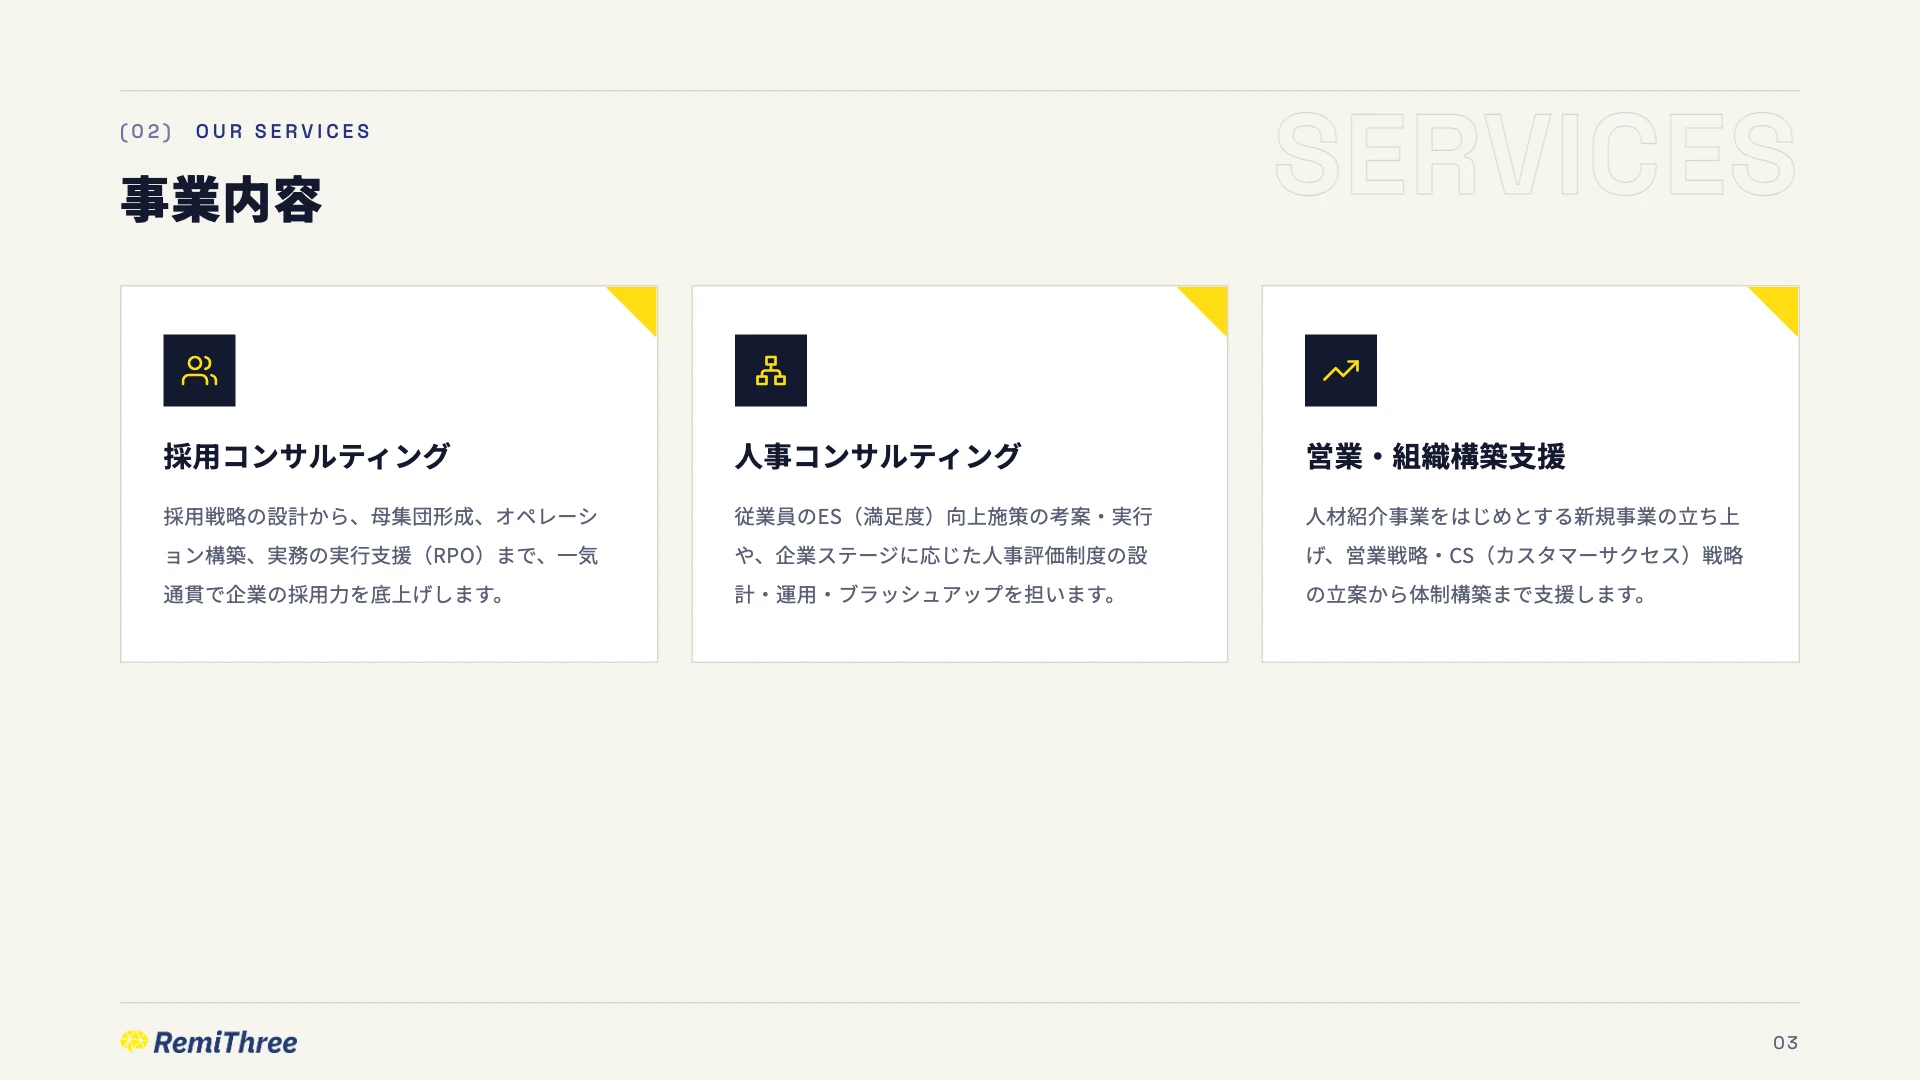
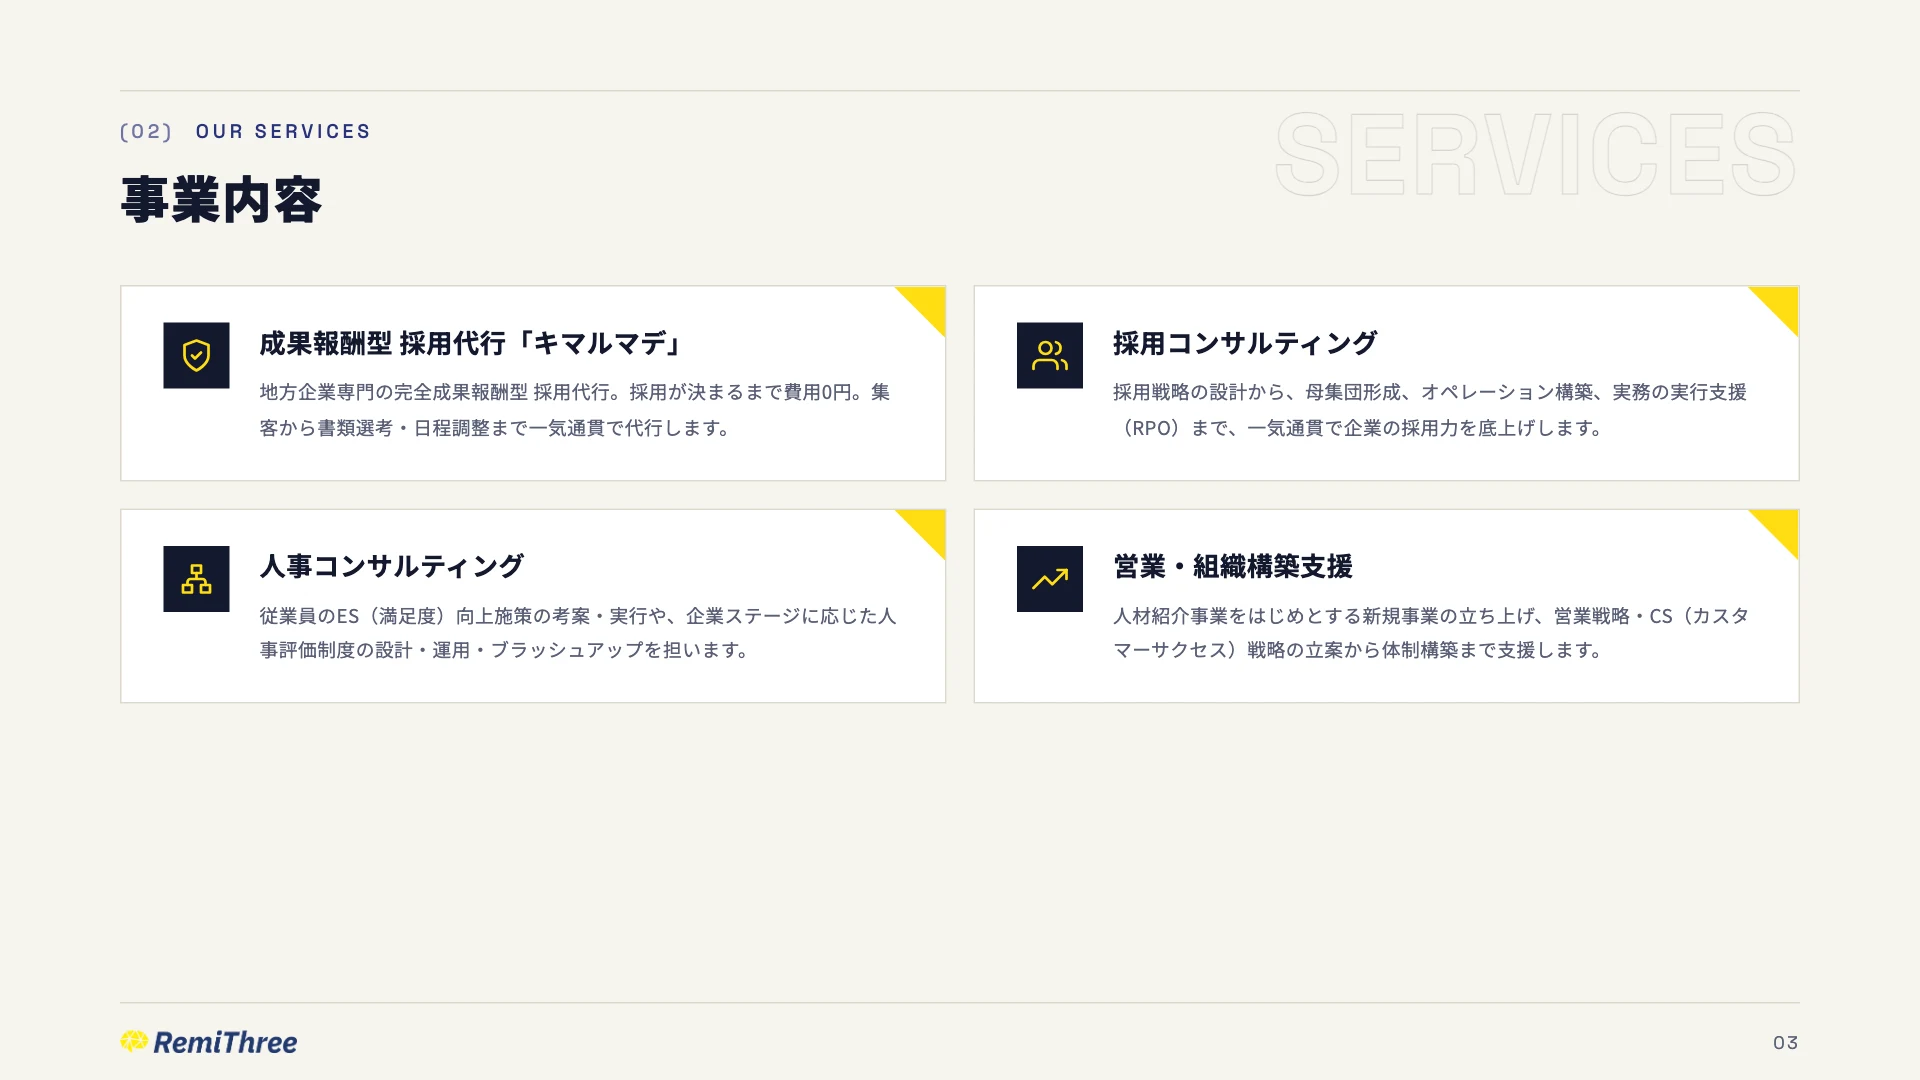
Add Kimarumade to company deck services slide (2x2 layout)
- 事業内容スライドを4事業の2x2構成に（キマルマデを筆頭に追加）
- ビューア用スライド画像を再生成

Claude-Session: https://claude.ai/code/session_01VcJ5tTUF9qqugXbNptTr8g

Changed region(s): [[0.0625, 0.2444, 0.9375, 0.6111], [0.4688, 0.2444, 0.5, 0.3056]]

diff --git a/intro.html b/intro.html
@@ -121,6 +121,11 @@
 
   /* 3カラムカード */
   .card-row { display: grid; grid-template-columns: repeat(3, 1fr); gap: 22px; flex: 1; align-content: start; }
+  .card-row--2x2 { grid-template-columns: 1fr 1fr; gap: 18px; }
+  .card-row--2x2 .f-card { padding: 24px 28px; display: flex; gap: 20px; align-items: flex-start; }
+  .card-row--2x2 .f-ico { margin-bottom: 0; flex-shrink: 0; width: 44px; height: 44px; }
+  .card-row--2x2 .f-card h3 { font-size: 17.5px; margin-bottom: 8px; }
+  .card-row--2x2 .f-card p { font-size: 12.5px; line-height: 1.85; }
   .f-card {
     position: relative;
     background: var(--white);
@@ -357,21 +362,34 @@
       <h2>事業内容</h2>
       <span class="s-ghost">SERVICES</span>
     </div>
-    <div class="card-row">
+    <div class="card-row card-row--2x2">
+      <div class="f-card">
+        <div class="f-ico"><svg viewBox="0 0 24 24" fill="none" stroke="currentColor" stroke-width="1.8" stroke-linecap="round" stroke-linejoin="round"><path d="M12 22s8-4 8-10V5l-8-3-8 3v7c0 6 8 10 8 10z"/><polyline points="9 12 11 14 15 10"/></svg></div>
+        <div>
+          <h3>成果報酬型 採用代行「キマルマデ」</h3>
+          <p>地方企業専門の完全成果報酬型 採用代行。採用が決まるまで費用0円。集客から書類選考・日程調整まで一気通貫で代行します。</p>
+        </div>
+      </div>
       <div class="f-card">
         <div class="f-ico"><svg viewBox="0 0 24 24" fill="none" stroke="currentColor" stroke-width="1.8" stroke-linecap="round" stroke-linejoin="round"><path d="M17 21v-2a4 4 0 0 0-4-4H5a4 4 0 0 0-4 4v2"/><circle cx="9" cy="7" r="4"/><path d="M23 21v-2a4 4 0 0 0-3-3.87"/><path d="M16 3.13a4 4 0 0 1 0 7.75"/></svg></div>
-        <h3>採用コンサルティング</h3>
-        <p>採用戦略の設計から、母集団形成、オペレーション構築、実務の実行支援（RPO）まで、一気通貫で企業の採用力を底上げします。</p>
+        <div>
+          <h3>採用コンサルティング</h3>
+          <p>採用戦略の設計から、母集団形成、オペレーション構築、実務の実行支援（RPO）まで、一気通貫で企業の採用力を底上げします。</p>
+        </div>
       </div>
       <div class="f-card">
         <div class="f-ico"><svg viewBox="0 0 24 24" fill="none" stroke="currentColor" stroke-width="1.8" stroke-linecap="round" stroke-linejoin="round"><rect x="9" y="3" width="6" height="5"/><rect x="3" y="16" width="6" height="5"/><rect x="15" y="16" width="6" height="5"/><path d="M12 8v4M6 16v-2a2 2 0 0 1 2-2h8a2 2 0 0 1 2 2v2"/></svg></div>
-        <h3>人事コンサルティング</h3>
-        <p>従業員のES（満足度）向上施策の考案・実行や、企業ステージに応じた人事評価制度の設計・運用・ブラッシュアップを担います。</p>
+        <div>
+          <h3>人事コンサルティング</h3>
+          <p>従業員のES（満足度）向上施策の考案・実行や、企業ステージに応じた人事評価制度の設計・運用・ブラッシュアップを担います。</p>
+        </div>
       </div>
       <div class="f-card">
         <div class="f-ico"><svg viewBox="0 0 24 24" fill="none" stroke="currentColor" stroke-width="1.8" stroke-linecap="round" stroke-linejoin="round"><polyline points="23 6 13.5 15.5 8.5 10.5 1 18"/><polyline points="17 6 23 6 23 12"/></svg></div>
-        <h3>営業・組織構築支援</h3>
-        <p>人材紹介事業をはじめとする新規事業の立ち上げ、営業戦略・CS（カスタマーサクセス）戦略の立案から体制構築まで支援します。</p>
+        <div>
+          <h3>営業・組織構築支援</h3>
+          <p>人材紹介事業をはじめとする新規事業の立ち上げ、営業戦略・CS（カスタマーサクセス）戦略の立案から体制構築まで支援します。</p>
+        </div>
       </div>
     </div>
   </div>
